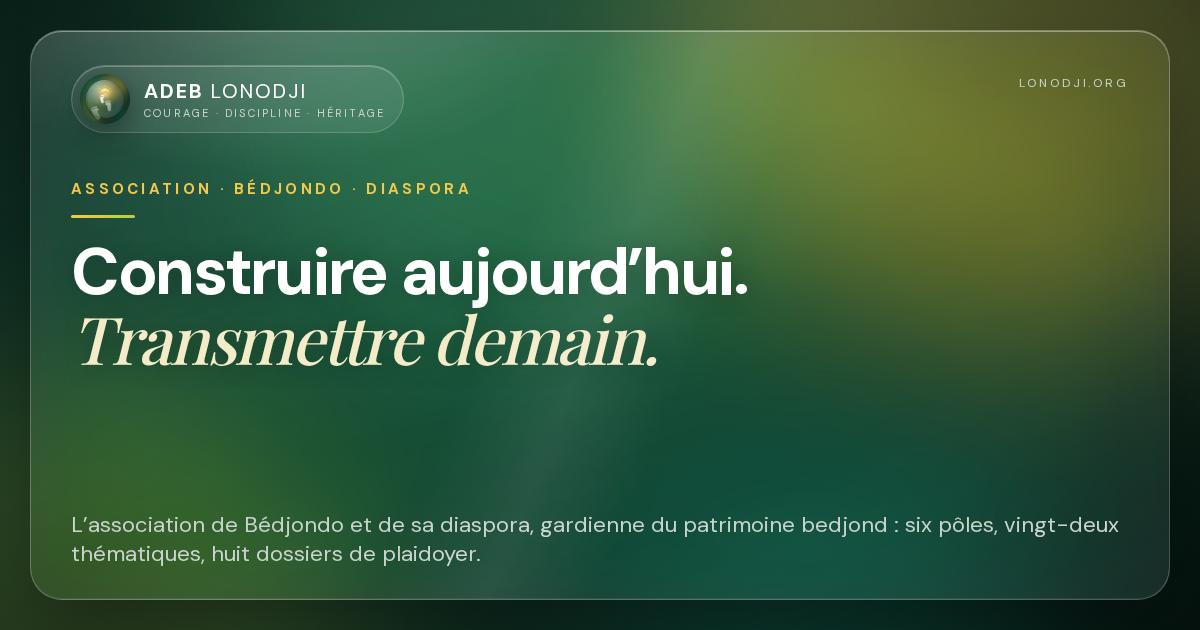
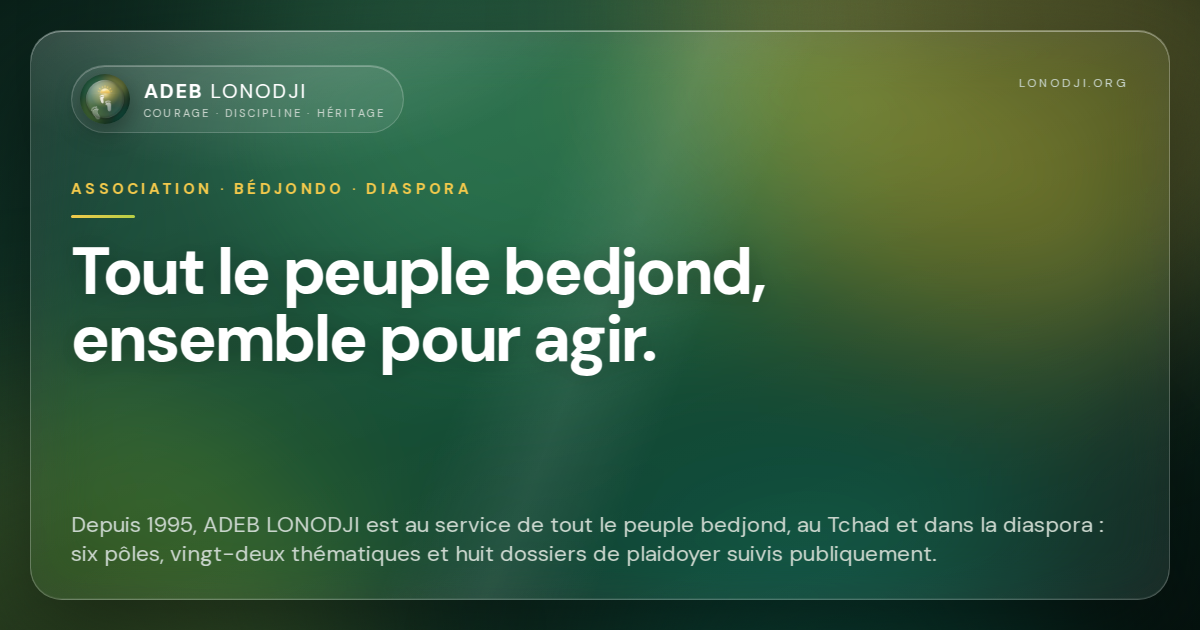
Affirmer LONODJI au service de tout le peuple bedjond

Changed region(s): [[0.0617, 0.3921, 0.6475, 0.6032], [0.0617, 0.8143, 0.925, 0.9048]]

diff --git a/app/(fr)/mission/page.tsx b/app/(fr)/mission/page.tsx
@@ -10,7 +10,7 @@ import Partager from "@/components/partager";
 
 export const metadata: Metadata = {
   title: "Notre mission",
-  description: "L’association de Bédjondo et de sa diaspora, gardienne du patrimoine bedjond : mission, valeurs, repères depuis 1986, bureau exécutif et organisation.",
+  description: "Au service de tout le peuple bedjond, au Tchad et dans la diaspora : mission, valeurs, repères depuis 1986, bureau exécutif et organisation.",
   alternates: { canonical: "/mission", languages: alternatesLangues("/mission") },
   openGraph: ogFor("/mission"),
 };
@@ -27,12 +27,12 @@ export default function Mission() {
   const toc = (page.toc ?? []).filter((t) => t.href !== `#${DOUBLON}` && !PATRIMOINE.includes(t.href.slice(1)));
   return (
     <main id="main-content" className="hub-page">
-      <script type="application/ld+json" dangerouslySetInnerHTML={{ __html: jsonLd({ "@context": "https://schema.org", "@graph": [webPageSchema({ url: "/mission", name: "Notre mission", description: "L’association de Bédjondo et de sa diaspora, gardienne du patrimoine bedjond : mission, valeurs, repères depuis 1986, bureau exécutif et organisation." }), breadcrumbSchema([{ name: "Accueil", url: "/" }, { name: "Notre mission" }], "/mission")] }) }} />
+      <script type="application/ld+json" dangerouslySetInnerHTML={{ __html: jsonLd({ "@context": "https://schema.org", "@graph": [webPageSchema({ url: "/mission", name: "Notre mission", description: "Au service de tout le peuple bedjond, au Tchad et dans la diaspora : mission, valeurs, repères depuis 1986, bureau exécutif et organisation." }), breadcrumbSchema([{ name: "Accueil", url: "/" }, { name: "Notre mission" }], "/mission")] }) }} />
       <PageHeader
         eyebrow="Association · notre mission"
-        title="L’association de Bédjondo et de sa diaspora,"
-        em="gardienne du patrimoine bedjond."
-        lead={page.lede || "Reconnue en 1995 après dix ans de réflexion, remise en mouvement en 2026, ADEB LONODJI agit pour tous les habitants de Bédjondo — eau, santé, école, routes — et garde au cœur de son objet la sauvegarde de la langue, de l’histoire et du patrimoine bedjond."}
+        title="Au service de tout le peuple bedjond,"
+        em="au Tchad et dans la diaspora."
+        lead="Ancrée à Bédjondo, ADEB LONODJI s’adresse à tout le peuple bedjond, où qu’il vive. Elle rassemble les contributions au développement du pays bedjond — eau, santé, école, routes — et à la sauvegarde de sa langue, de son histoire et de son patrimoine."
         pills={["Reconnue en 1995 · autorisation actuelle en vérification", "Réactivée en 2026", "6 pôles · 22 thématiques"]}
       />
 
@@ -59,7 +59,7 @@ export default function Mission() {
         </div>
         <p className="section-actions" style={{ justifyContent: "flex-start" }}><Link className="button secondary" href="/histoire#origines">Origines, terre, histoire et langue du peuple bedjond <span aria-hidden="true">→</span></Link></p>
       </section>
-      <Partager route="/mission" titre="Notre mission" texte="L’association de Bédjondo et de sa diaspora, gardienne du patrimoine bedjond : mission, valeurs, repères depuis 1986, bureau exécutif et organisation." />
+      <Partager route="/mission" titre="Notre mission" texte="Au service de tout le peuple bedjond, au Tchad et dans la diaspora : mission, valeurs, repères depuis 1986, bureau exécutif et organisation." />
     </main>
   );
 }

diff --git a/components/root-shell.tsx b/components/root-shell.tsx
@@ -35,11 +35,11 @@ export const metadataFr: Metadata = {
   metadataBase: new URL(siteUrl),
   applicationName: "ADEB LONODJI",
   title: {
-    default: "ADEB LONODJI — Association de Bédjondo et de sa diaspora",
+    default: "ADEB LONODJI — Au service de tout le peuple bedjond",
     template: "%s — ADEB LONODJI",
   },
   description:
-    `ADEB LONODJI relie Bédjondo et sa diaspora : développement local, patrimoine bedjond, données territoriales et ${enLettres(plaidoyerCount)} dossiers de plaidoyer suivis publiquement dans le Mandoul, au Tchad.`,
+    `ADEB LONODJI est au service de tout le peuple bedjond, au Tchad et dans la diaspora : développement local, patrimoine bedjond, données territoriales et ${enLettres(plaidoyerCount)} dossiers de plaidoyer suivis publiquement dans le Mandoul, au Tchad.`,
   keywords: ["ADEB LONODJI", "Bédjondo", "Mandoul Occidental", "Tchad", "diaspora bedjond", "développement local Bédjondo", "patrimoine bedjond", "plaidoyer Bédjondo"],
   alternates: { canonical: "/" },
   openGraph: {
@@ -47,9 +47,9 @@ export const metadataFr: Metadata = {
     locale: "fr_FR",
     url: siteUrl,
     siteName: "ADEB LONODJI",
-    title: "ADEB LONODJI — Bédjondo, diaspora, développement et patrimoine",
+    title: "ADEB LONODJI — Peuple bedjond, développement et patrimoine",
     description:
-      `Association de Bédjondo et de sa diaspora : développement local, patrimoine bedjond, données territoriales et ${enLettres(plaidoyerCount)} dossiers de plaidoyer suivis publiquement.`,
+      `Au service de tout le peuple bedjond : développement local, patrimoine bedjond, données territoriales et ${enLettres(plaidoyerCount)} dossiers de plaidoyer suivis publiquement.`,
     images: [{ url: "/og/index.jpg", width: 1200, height: 630, alt: "ADEB LONODJI — Courage · Discipline · Héritage" }],
   },
   twitter: { card: "summary_large_image" },
@@ -59,9 +59,9 @@ export const metadataFr: Metadata = {
 export const metadataEn: Metadata = {
   ...metadataFr,
   title: { default: "ADEB LONODJI — Courage · Discipline · Heritage", template: "%s — ADEB LONODJI" },
-  description: `The association of Bédjondo (Mandoul, Chad) and its diaspora, guardian of the Bedjond heritage: six pillars, ${themeCount} structured themes, ${plaidoyerCount} advocacy briefs.`,
+  description: `Serving all Bedjond people, in Chad and across the diaspora: six pillars, ${themeCount} structured themes, ${plaidoyerCount} advocacy briefs.`,
   alternates: { canonical: "/en/index" },
-  openGraph: { ...metadataFr.openGraph, locale: "en_GB", url: `${siteUrl}/en/index`, title: "ADEB LONODJI — Courage · Discipline · Heritage", description: `The association of Bédjondo and its diaspora, guardian of the Bedjond heritage: six pillars, ${themeCount} structured themes, ${plaidoyerCount} published advocacy briefs.` },
+  openGraph: { ...metadataFr.openGraph, locale: "en_GB", url: `${siteUrl}/en/index`, title: "ADEB LONODJI — Courage · Discipline · Heritage", description: `Serving all Bedjond people, in Chad and across the diaspora: six pillars, ${themeCount} structured themes, ${plaidoyerCount} published advocacy briefs.` },
 };
 
 export default function RootShell({

diff --git a/app/en/index/page.tsx b/app/en/index/page.tsx
@@ -3,7 +3,7 @@ import Appel from "@/components/appel";
 import Link from "@/components/lien";
 import CarteAccueil from "@/components/carte-accueil";
 import EnCeMoment from "@/components/en-ce-moment";
-import { filledCount, getIndex, getPage, metaDescription, ogFor, ORG, thematiqueCount } from "@/lib/content";
+import { filledCount, getIndex, ogFor, ORG, thematiqueCount } from "@/lib/content";
 import { alternatesLangues } from "@/lib/langues";
 import { getIndicateurs } from "@/lib/indicateurs";
 import { PRIORITAIRES } from "@/lib/organisation";
@@ -18,12 +18,11 @@ import { apercu } from "@/lib/apercu";
    country, what is happening now, the six pillars, the advocacy briefs, the dashboard and how to help. Pillar and
    theme names come from the English themes page; figures from content/. */
 const ROUTE = "/en/index";
-const legacy = getPage("en/index");
 export const metadata: Metadata = {
-  title: { absolute: "ADEB LONODJI — the association of Bédjondo and its diaspora" },
-  description: metaDescription(legacy.description || legacy.lede),
+  title: { absolute: "ADEB LONODJI — serving all Bedjond people" },
+  description: "ADEB LONODJI serves all Bedjond people, in Bédjondo, elsewhere in Chad and across the diaspora: local development, advocacy and Bedjond heritage.",
   alternates: { canonical: ROUTE, languages: alternatesLangues(ROUTE) },
-  openGraph: { ...ogFor(ROUTE, "en"), title: "ADEB LONODJI — the association of Bédjondo and its diaspora" },
+  openGraph: { ...ogFor(ROUTE, "en"), title: "ADEB LONODJI — serving all Bedjond people" },
 };
 
 const BRIEFS_EN: Record<string, string> = {
@@ -72,9 +71,9 @@ export default function HomeEn() {
     <main id="main-content" className="accueil" lang="en">
       <section className="acc-hero" aria-labelledby="hero-title">
         <div className="acc-hero-texte">
-          <h1 id="hero-title">Bédjondo and its diaspora, acting together.</h1>
+          <h1 id="hero-title">All Bedjond people, acting together.</h1>
           <p className="acc-hero-lead">
-            ADEB LONODJI connects the people of Bédjondo, its diaspora and its partners to document local needs, advocate for the territory’s priorities and preserve Bedjond heritage.
+            ADEB LONODJI serves all Bedjond people, in Bédjondo, elsewhere in Chad and across the diaspora. Together with its partners, it documents needs, advocates for the priorities of Bedjond country and preserves its heritage.
           </p>
           <div className="acc-hero-actions">
             <Link className="acc-bouton acc-bouton--plein" href="/en/impact">See public progress</Link>

diff --git a/app/(fr)/secteurs/page.tsx b/app/(fr)/secteurs/page.tsx
@@ -66,7 +66,7 @@ export default function Secteurs() {
           <article><span>02</span><h3>Ne pas nuire</h3><p>Aucune collecte avant un compte au nom de l’association ; rien n’est publié sur les lieux sacrés et les sépultures ; aucun enfant identifiable dans un témoignage ; en cas de crise, informer et orienter plutôt que doubler l’État et les agences. <Link href="/patrimoine/lieux-sacres">Lieux sacrés</Link> · <Link href="/transparence#ce-que-nous-protegeons-et-comment">Ce que nous protégeons</Link></p></article>
           <article><span>03</span><h3>Redevabilité envers les populations</h3><p>Réponse sous 48 heures ouvrées, signalement possible même anonyme, recours devant le bureau puis l’assemblée, et chaque erreur de fait corrigée et datée. <Link href="/transparence#comment-nous-signaler-un-manquement">Signaler un manquement</Link> · <Link href="/transparence#corrections">Journal des corrections</Link></p></article>
           <article><span>04</span><h3>Genre</h3><p>Une thématique, Genre & autonomisation des femmes, porte l’égalité femmes-hommes ; la charte interdit d’écarter quiconque d’une activité ou d’une coordination en raison de son sexe. <Link href="/programmes#leadership-feminin">La thématique 10</Link></p></article>
-          <article><span>05</span><h3>Organisation locale</h3><p>Une association de Bédjondo et de sa diaspora, avec un siège des opérations à Bédjondo, des coordonnateurs issus de ses membres et des besoins signalés localité par localité. <Link href="/mission#sieges">Les deux sièges</Link> · <Link href="/territoire/besoins">Signaler un besoin</Link></p></article>
+          <article><span>05</span><h3>Organisation locale</h3><p>Une association au service de tout le peuple bedjond, au Tchad et dans la diaspora, avec un siège des opérations à Bédjondo, des coordonnateurs issus de ses membres et des besoins signalés localité par localité. <Link href="/mission#sieges">Les deux sièges</Link> · <Link href="/territoire/besoins">Signaler un besoin</Link></p></article>
         </div>
         <p className="lg-footnote">Logique d’intervention, telle que le site l’organise — à valider par l’assemblée générale : le <Link href="/territoire/diagnostic">diagnostic territorial</Link> recense les problèmes et ce que l’on en sait ; chaque problème est rattaché à une thématique ; la thématique porte un <Link href="/actions">plaidoyer</Link> ou un <Link href="/projets">projet</Link> ; le <Link href="/impact">tableau de suivi</Link> suit ce qui avance.</p>
       </section>

diff --git a/app/(fr)/page.tsx b/app/(fr)/page.tsx
@@ -21,7 +21,7 @@ import { apercu } from "@/lib/apercu";
    Tous les chiffres sont lus dans content/ à la construction. */
 const idx0 = getIndex();
 export const metadata: Metadata = {
-  description: `Depuis 1995, ADEB LONODJI relie Bédjondo et sa diaspora : ${enLettres(idx0.structure.poles.length)} pôles, ${enLettres(thematiqueCount(idx0))} thématiques et ${enLettres(getIndicateurs().contenu.plaidoyers.publies)} dossiers de plaidoyer suivis publiquement.`,
+  description: `Depuis 1995, ADEB LONODJI est au service de tout le peuple bedjond, au Tchad et dans la diaspora : ${enLettres(idx0.structure.poles.length)} pôles, ${enLettres(thematiqueCount(idx0))} thématiques et ${enLettres(getIndicateurs().contenu.plaidoyers.publies)} dossiers de plaidoyer suivis publiquement.`,
   alternates: { canonical: "/", languages: alternatesLangues("/") },
 };
 
@@ -76,9 +76,9 @@ export default function Home() {
       {/* 1. La carte du pays bedjond, cliquable */}
       <section className="acc-hero" aria-labelledby="hero-title">
         <div className="acc-hero-texte">
-          <h1 id="hero-title">Bédjondo et sa diaspora, ensemble pour agir.</h1>
+          <h1 id="hero-title">Tout le peuple bedjond, ensemble pour agir.</h1>
           <p className="acc-hero-lead">
-            ADEB LONODJI relie les habitants de Bédjondo, sa diaspora et ses partenaires pour documenter les besoins, porter les priorités du territoire et préserver la mémoire bedjond.
+            ADEB LONODJI s’adresse à tout le peuple bedjond, à Bédjondo, ailleurs au Tchad et dans la diaspora. Avec ses partenaires, elle documente les besoins, porte les priorités du pays bedjond et préserve sa mémoire.
           </p>
           <div className="acc-hero-actions">
             <Link className="acc-bouton acc-bouton--plein" href="/impact#plaidoyers">Voir le suivi public</Link>

diff --git a/app/(fr)/presse/page.tsx b/app/(fr)/presse/page.tsx
@@ -81,7 +81,7 @@ export default function Presse() {
       <section className="hub-section" id="en-bref">
         <SectionHead eyebrow="En cinq lignes" title="Qui nous sommes," em="en une citation prête à l’emploi." />
         <blockquote className="pr-citation">
-          <p>« ADEB LONODJI, l’Association de Développement et d’Entraide de Bédjondo, est l’association de Bédjondo (Mandoul Occidental, Tchad) et de sa diaspora, gardienne du patrimoine bedjond. Née de réflexions engagées en 1986 et reconnue en 1995, remise en mouvement en 2026, elle agit par {enLettres(total)} thématiques bénévoles pour l’eau, la santé, l’école, les routes et le réseau, et garde la mémoire, la langue et le patrimoine bedjond. Sa devise : Courage, Discipline, Héritage. Depuis le {ODEB.presenteLabel}, elle porte la réflexion ODEB LONODJI, projet d’organisation permanente à l’horizon 2030. »</p>
+          <p>« ADEB LONODJI, l’Association de Développement et d’Entraide de Bédjondo, s’adresse à tout le peuple bedjond, au Tchad et dans la diaspora. Ancrée à Bédjondo (Mandoul Occidental, Tchad), elle est gardienne du patrimoine bedjond. Née de réflexions engagées en 1986 et reconnue en 1995, remise en mouvement en 2026, elle agit par {enLettres(total)} thématiques bénévoles pour l’eau, la santé, l’école, les routes et le réseau, et garde la mémoire, la langue et le patrimoine bedjond. Sa devise : Courage, Discipline, Héritage. Depuis le {ODEB.presenteLabel}, elle porte la réflexion ODEB LONODJI, projet d’organisation permanente à l’horizon 2030. »</p>
           <footer>Texte libre de reprise, à citer « ADEB LONODJI, lonodji.org ». Le nom s’écrit en capitales : ADEB LONODJI ; le peuple s’écrit « bedjond », sa langue « nangnda ».</footer>
         </blockquote>
       </section>

diff --git a/components/site-footer.tsx b/components/site-footer.tsx
@@ -53,7 +53,7 @@ export default function SiteFooter({ miseAJour, lang = "fr" }: { miseAJour?: str
       <div className="footer-top">
         <div className="footer-brand-block">
           <div className="footer-brand"><span className="logo-verre logo-verre--pied" aria-hidden="true"><img src="/icones/logo-motif-verre.svg" alt="" width={26} height={30} loading="lazy" decoding="async" /></span><strong className="brand-mot">ADEB <b>LONODJI</b></strong></div>
-          <p className="footer-tagline">{en ? "The association of Bédjondo and its diaspora, guardian of the Bedjond heritage." : ORG.tagline}</p>
+          <p className="footer-tagline">{en ? "Serving all Bedjond people, in Chad and across the diaspora." : ORG.tagline}</p>
           <p className="footer-place">{en ? <span lang="fr">{ORG.fullName}</span> : ORG.fullName}<br />{en ? "Bédjondo · Mandoul Occidental · Mandoul, Chad" : ORG.place}</p>
           <div className="footer-contact">
             <a className="footer-contact-icone" href={ORG.phoneHref} aria-label={en ? "Call the association" : "Appeler l’association"} title={en ? "Call the association" : "Appeler l’association"}><svg width="17" height="17" viewBox="0 0 24 24" fill="none" stroke="currentColor" strokeWidth="2" strokeLinecap="round" strokeLinejoin="round" aria-hidden="true"><path d="M5 4h4l2 5-2.5 1.5a11 11 0 0 0 5 5L15 13l5 2v4a2 2 0 0 1-2 2A16 16 0 0 1 3 6a2 2 0 0 1 2-2" /></svg></a>

diff --git a/app/manifest.ts b/app/manifest.ts
@@ -6,10 +6,10 @@ import type { MetadataRoute } from "next";
 export default function manifest(): MetadataRoute.Manifest {
   return {
     id: "/",
-    name: "ADEB LONODJI — Bédjondo",
+    name: "ADEB LONODJI — peuple bedjond",
     short_name: "LONODJI",
     description:
-      "L’association de Bédjondo et de sa diaspora : villages, thématiques, plaidoyers, journal. Les pages déjà ouvertes restent lisibles sans connexion.",
+      "Au service de tout le peuple bedjond, au Tchad et dans la diaspora : villages, thématiques, plaidoyers, journal. Les pages déjà ouvertes restent lisibles sans connexion.",
     start_url: "/",
     scope: "/",
     display: "standalone",

diff --git a/lib/content.ts b/lib/content.ts
@@ -174,7 +174,7 @@ export const enLettres = (n: number, majuscule = false) => { const t = lettres(n
 export const ORG = {
   name: "ADEB LONODJI",
   fullName: "Association de Développement et d’Entraide de Bédjondo",
-  tagline: "L’association de Bédjondo et de sa diaspora, gardienne du patrimoine bedjond.",
+  tagline: "Au service de tout le peuple bedjond, au Tchad et dans la diaspora.",
   motto: "Courage · Discipline · Héritage",
   place: "Bédjondo · Mandoul Occidental · Mandoul, Tchad",
   phone: TELEPHONE,

diff --git a/scripts/build-og.py b/scripts/build-og.py
@@ -92,7 +92,7 @@ def read_pages() -> list[dict]:
         m = re.search(r'<meta name="description" content="(.*?)"', html, re.S)
         desc = unescape(m.group(1)) if m else ""
         if route == "/":
-            title = "Construire aujourd’hui. — Transmettre demain."
+            title = "Tout le peuple bedjond, ensemble pour agir."
         if route in articles:
             a = articles[route]
             eyebrow = f"Le journal · {a['tag']} · {a['dateLabel']}"
